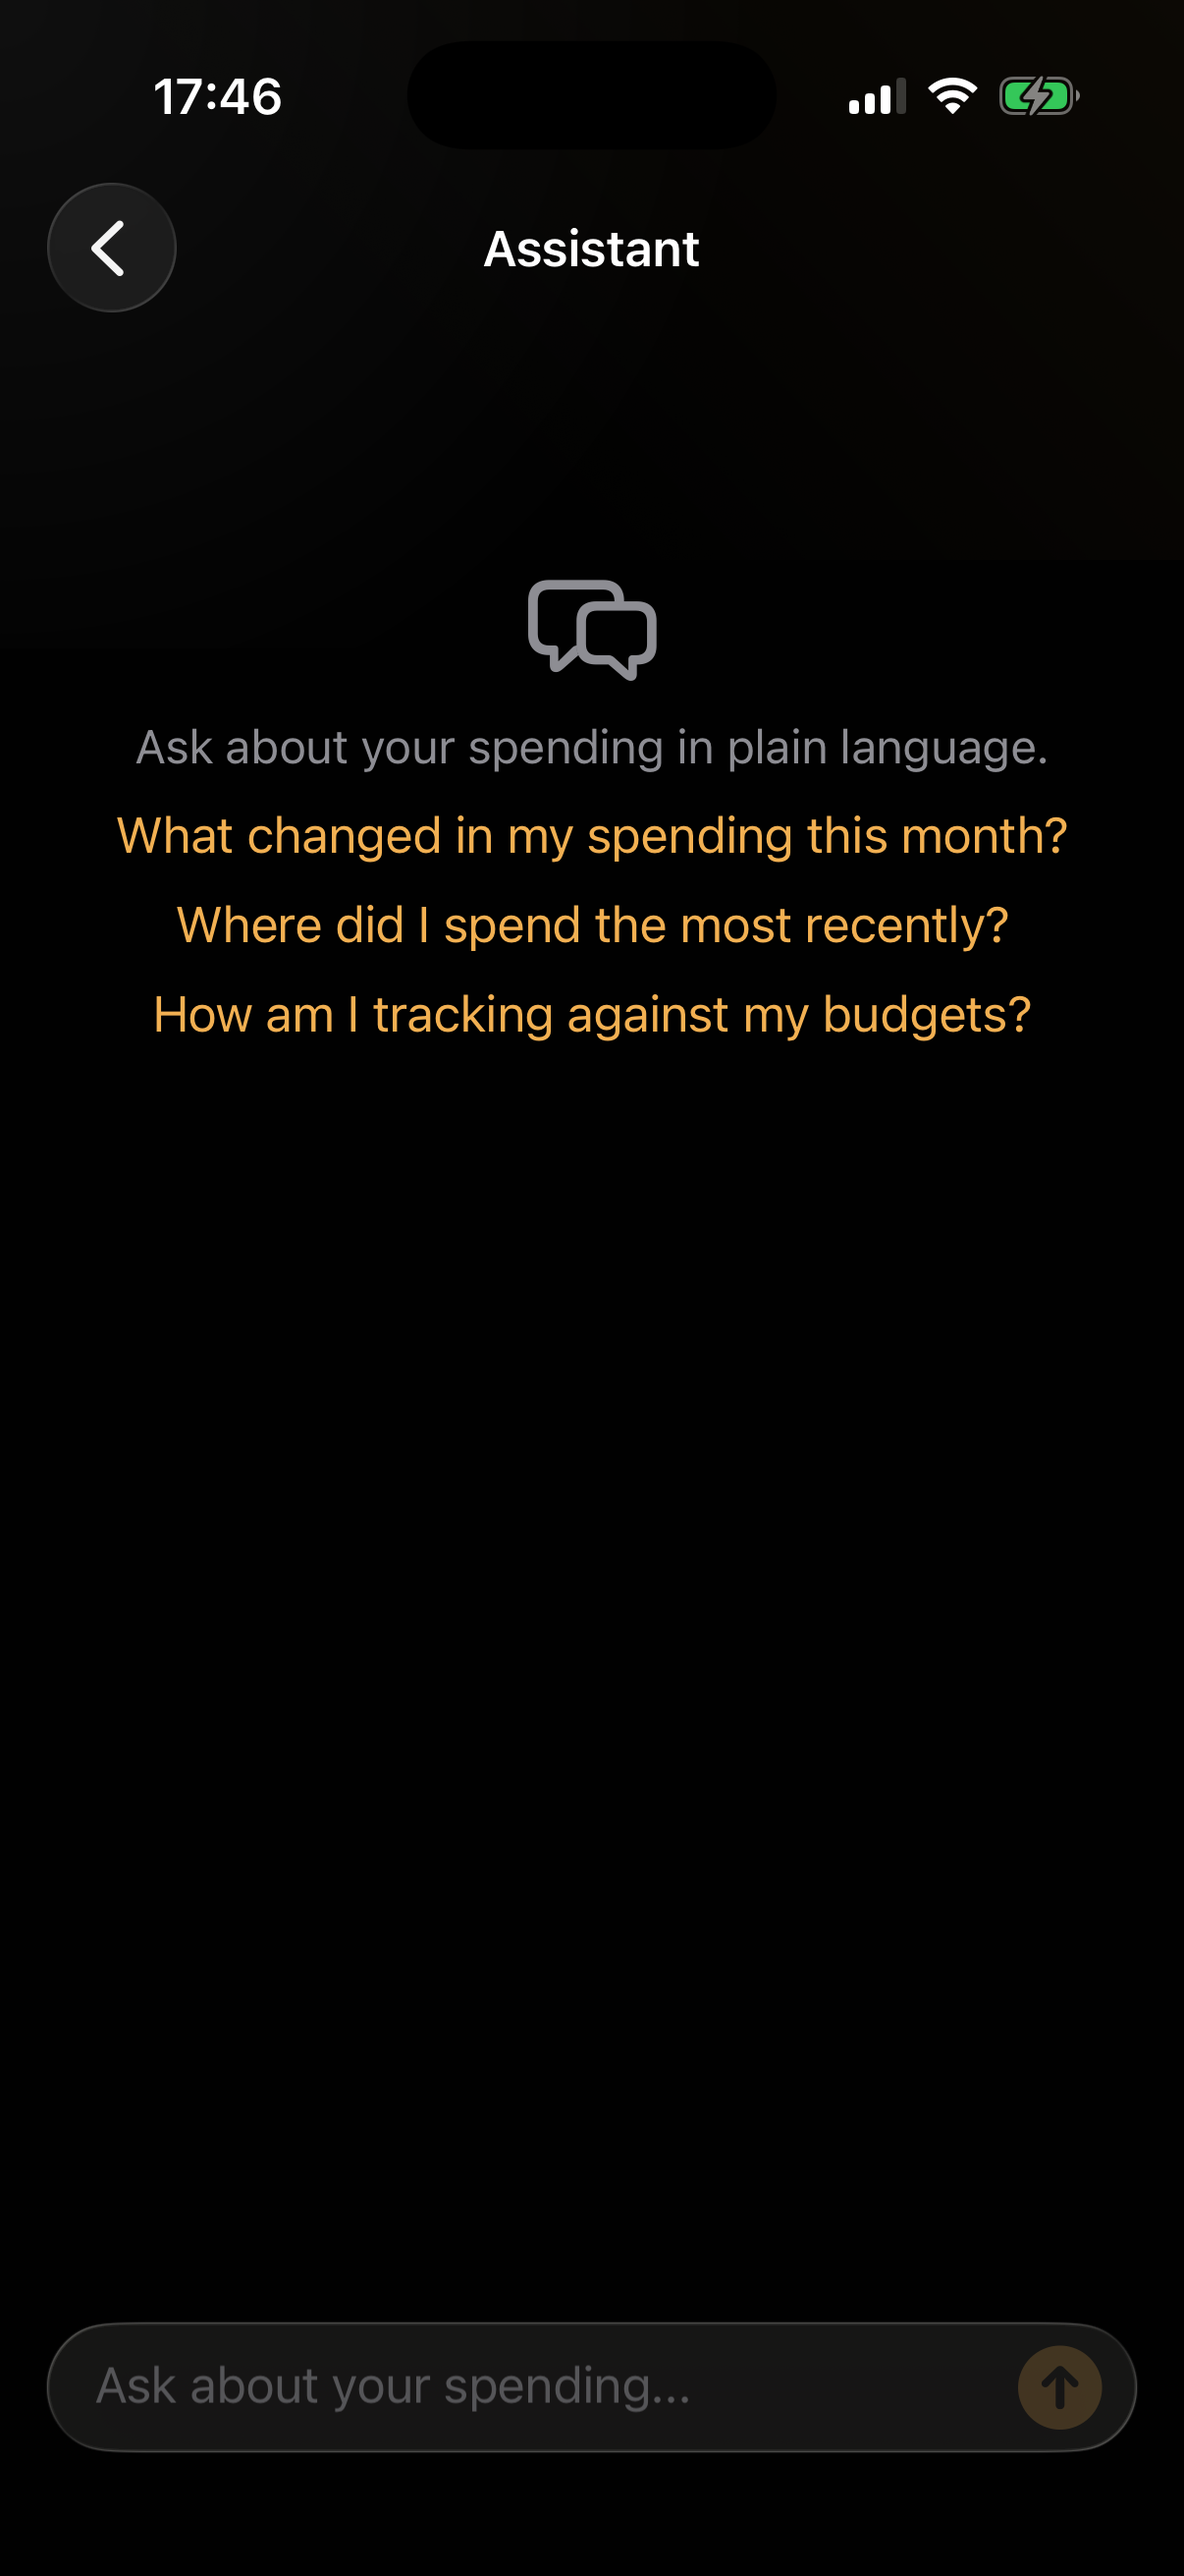
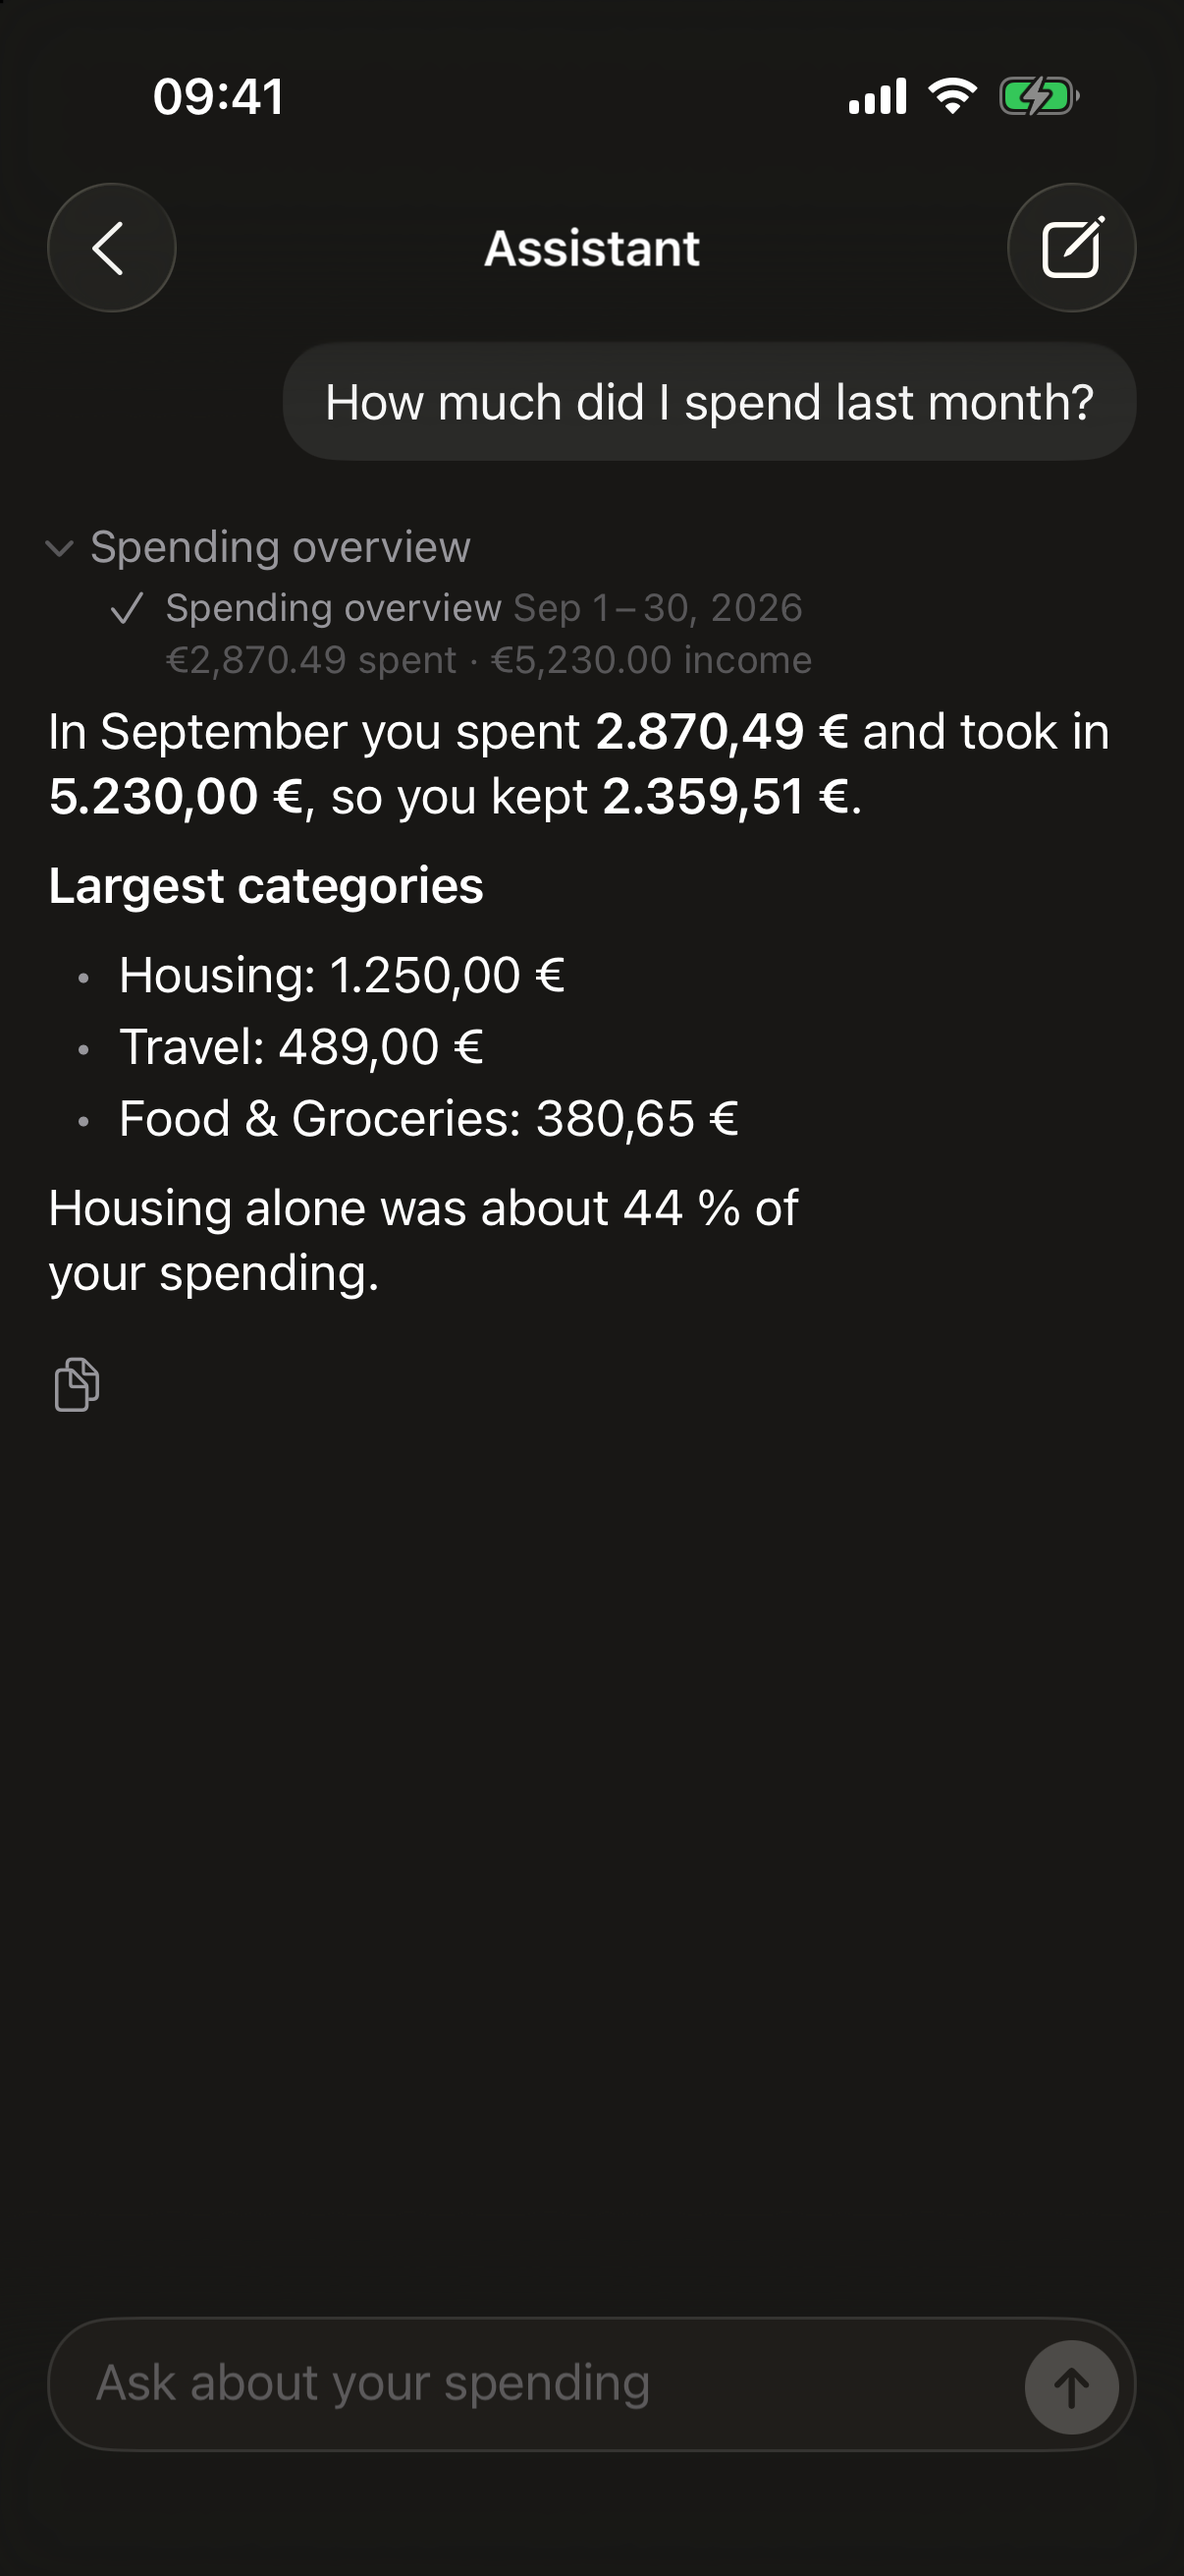
Document the iOS redesign
The changelog covers the whole iOS redesign, its removals and the receipt
size fix. The README points iOS users to Settings instead of the old
Account screen, and its iPhone screenshots show the new Dashboard,
Transactions, Insights and Assistant. The four unreferenced old-UI iPhone
screenshots are removed.

diff --git a/CHANGELOG.md b/CHANGELOG.md
@@ -12,9 +12,16 @@ and this project adheres to [Semantic Versioning](https://semver.org/spec/v2.0.0
 
 ### Changed
 - On mobile, the dashboard opens with one summary card: Spent, the overall budget with what is left per day and the likely month total, then Balance, Cash in, and Net. Budgets and Recent follow, and Category share shows a small ring with its five largest shares.
-- The iOS app takes the web's colors and its dashboard layout: the same summary card, Budgets, Recent, a balance chart with the likely forecast and its 80% range, spending by category over six months, Category share, and Durable purchases. Hide amounts now covers every amount on the dashboard. Budgets is a tab, Digest moves to More, and the add button is a solid ink circle. Update the iOS app together with the server, because it reads the new `budget_pace` fields.
+- Redesigned the iOS app to match the web redesign in light and dark. Dashboard, Transactions, Budgets, and Insights are tabs; More lists Forecast, Uncategorized, the Manage screens, the Tools, Settings, and Admin. Every screen takes the web page's content: transaction and Manage details save each field as you edit it, Uncategorized accepts or rejects suggested categories, Trash restores or deletes in bulk, Budgets steps through months with pace, Insights shows the month grids, daily calendar, and budget history, Reconcile reviews statement rows in suggested, several-match, and no-match groups with ignore reasons and a Resolved view, Settings and Admin have the web's sections, and the Assistant lists each tool step with its result. Without a stored session the app opens on one sign-in screen.
+- Hide amounts on iOS covers every amount in the app, including Assistant answers, and blurs amounts instead of drawing gray boxes.
+- iOS CSV export moves from Reports to Settings > Import and Export, next to the portable archive. Reports builds the web's report, including category and tag scope, and opens the PDF in Quick Look.
+- Update the iOS app together with the server, because it reads the new `budget_pace` fields.
+
+### Removed
+- The iOS AI triage queue for uncategorized transactions, and the iOS Insights flow, rings, durables, and movement views.
 
 ### Fixed
+- iOS camera receipts are saved at one pixel per point, so their thumbnails stay under the server's pixel limit.
 - Category share on the dashboard included only the eight largest categories, so its total fell short of the period's spending.
 
 ## [0.7.0] - 2026-10-13

diff --git a/README.md b/README.md
@@ -60,7 +60,7 @@ Add salary, rent, subscriptions, and other regular payments once. Expenses can p
 Rules take care of repeated sorting. Match a title, amount, or transaction type, then apply a category and tags to new or existing entries. If you enable LLM help, Expenses can suggest rules from your history; you still review them before they take effect.
 
 For local automatic categorization, enable **Automatic categorization** in **Settings → Categorization**
-(**Account → Automatic Categorization** on iOS). It is off by default for each user.
+on the web or iOS. It is off by default for each user.
 The recommended minimum confidence is **80%**; a higher value leaves more
 expenses uncategorized. Confidence estimates can still be wrong.
 
@@ -163,7 +163,7 @@ Leave the API key blank only when a private endpoint intentionally accepts reque
 You can also connect a ChatGPT Plus or Pro plan. Set `EXPENSES_LLM_ENABLED=true`;
 this option does not require an API key or `EXPENSES_LLM_BASE_URL`. Each Expenses
 user connects their own ChatGPT account in **Settings → AI settings** (or
-**Account → AI settings** on iOS).
+**Settings → AI** on iOS).
 
 1. Choose **Continue with ChatGPT** to create a pairing code valid for 10 minutes.
 2. On a Mac or Linux computer with a browser and an Expenses checkout, run
